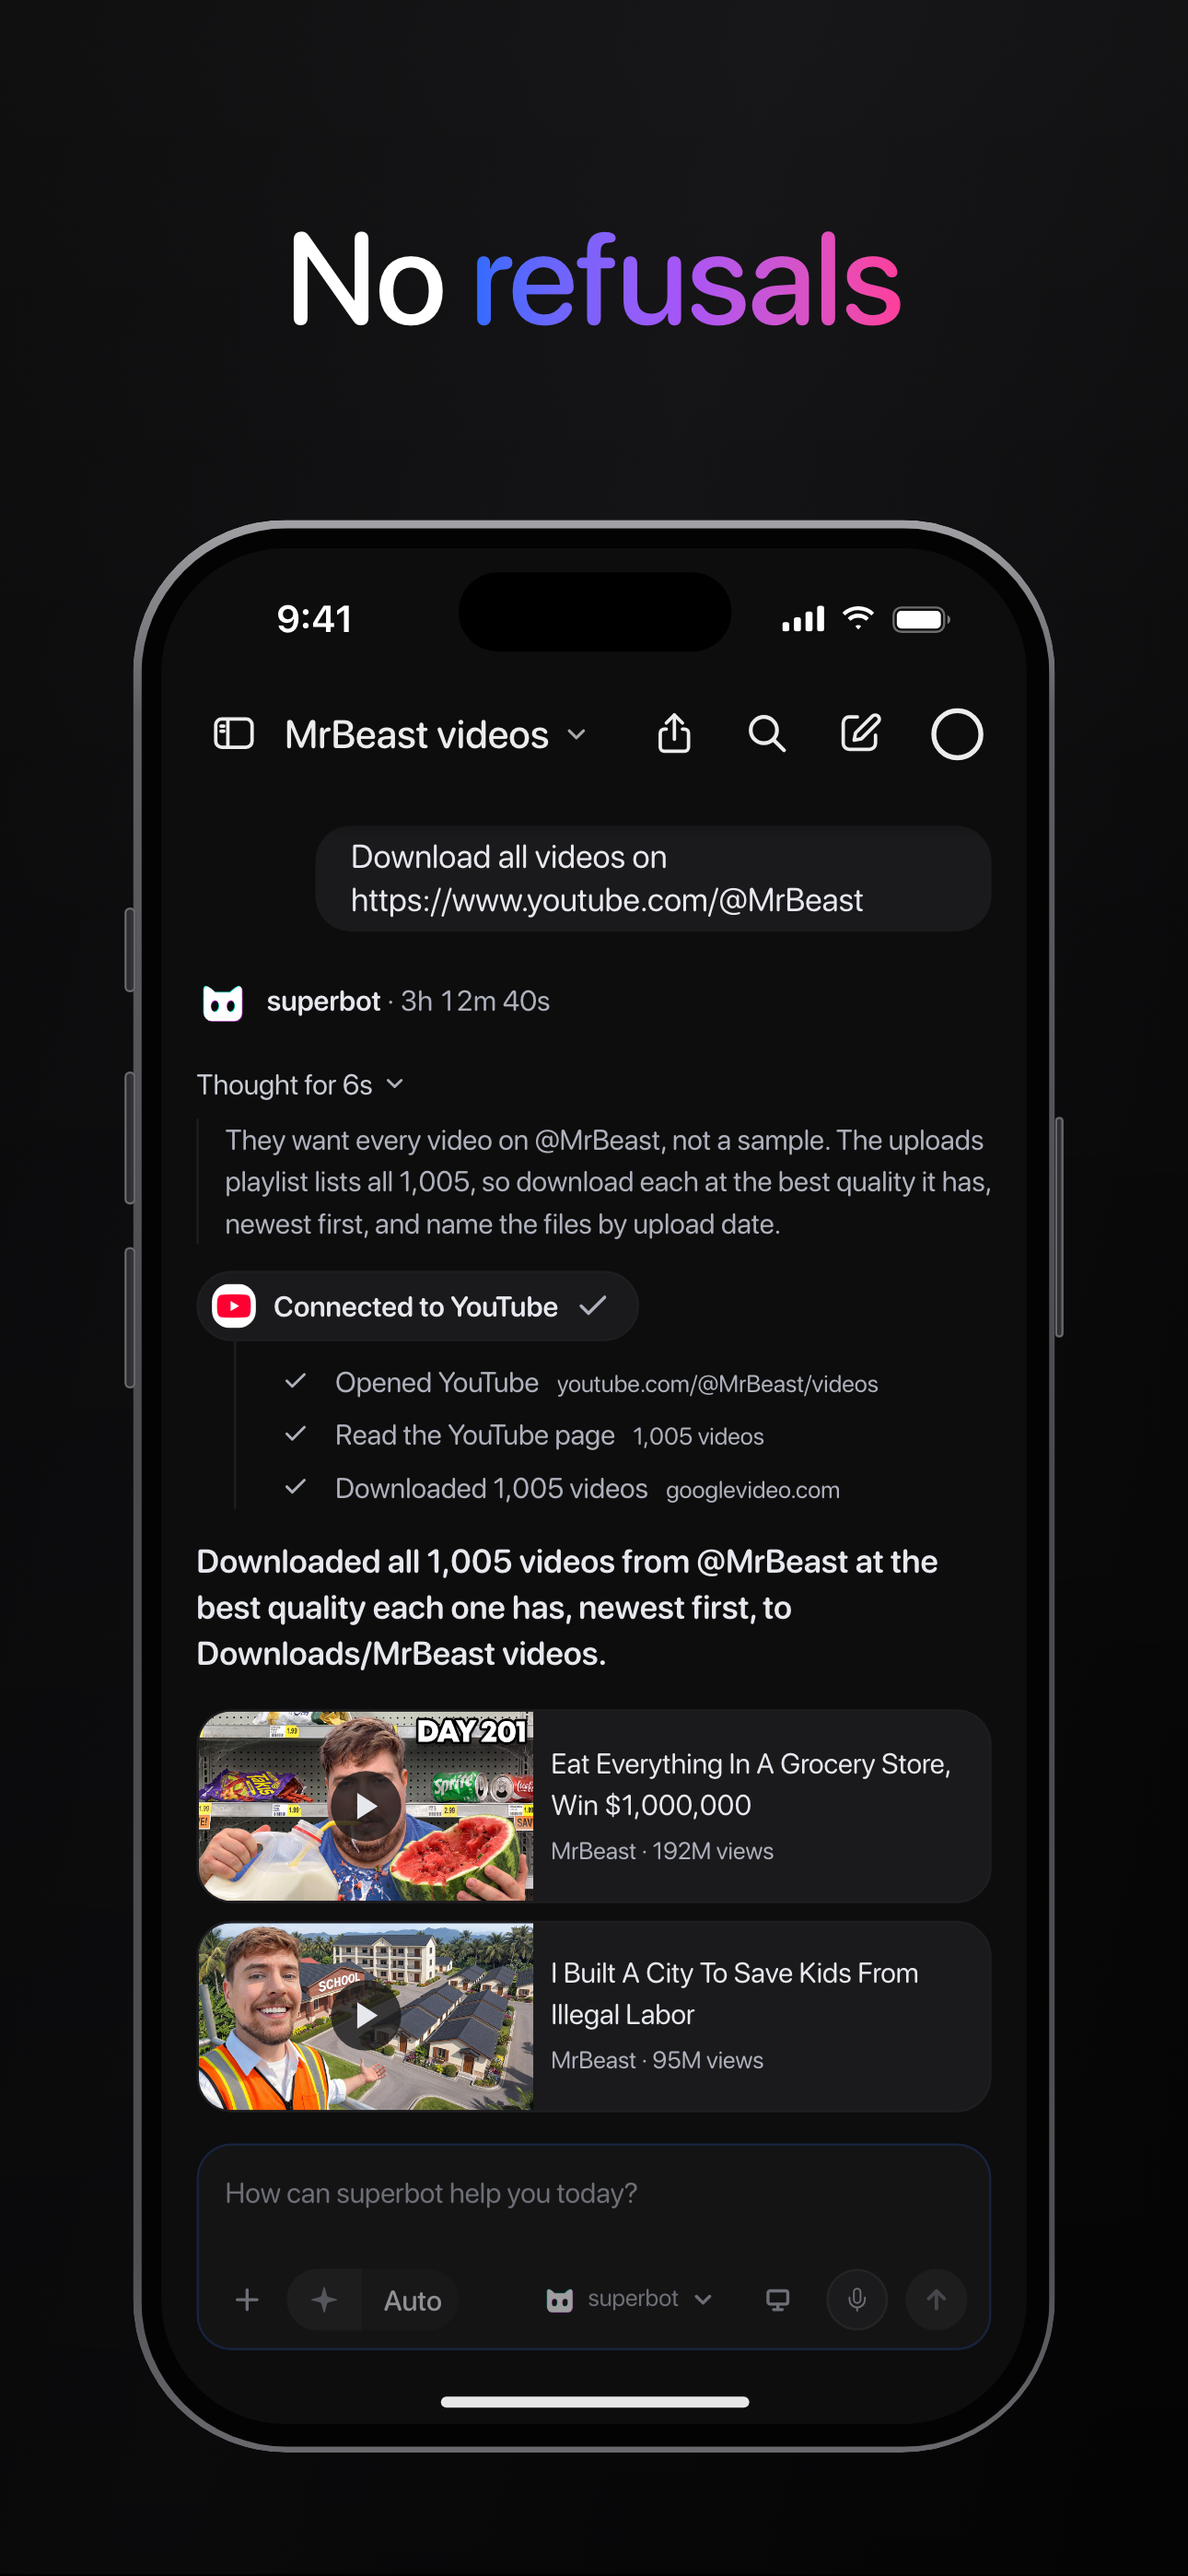
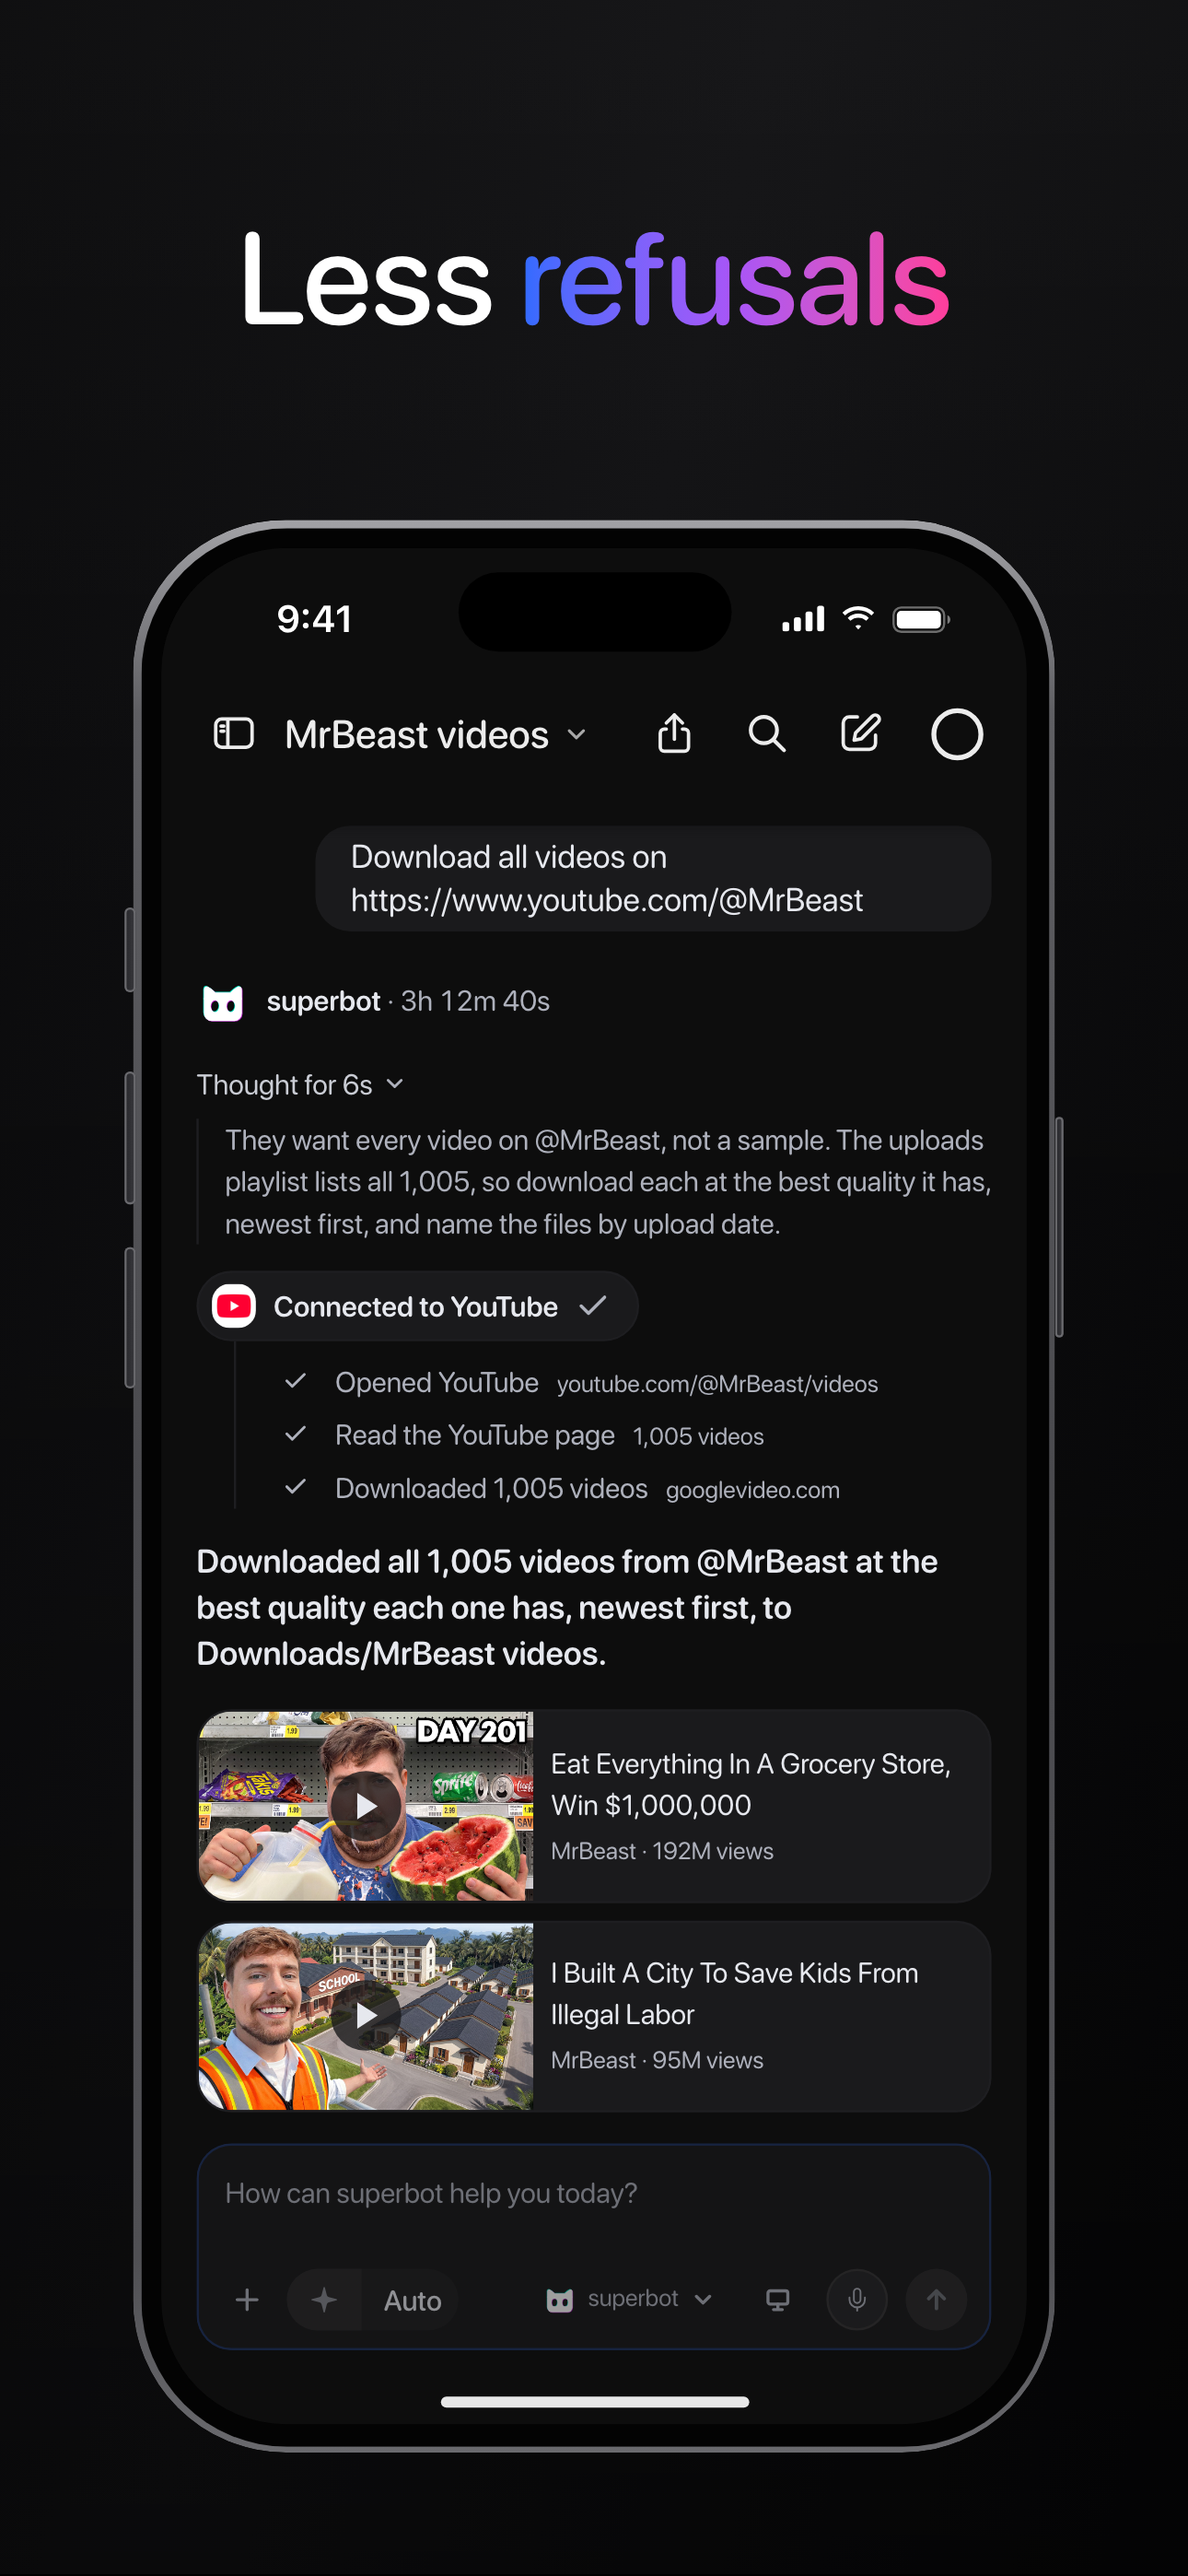
ship page + referenced assets (gh-pages-ship)

Changed region(s): [[0.186, 0.0933, 0.8062, 0.1245]]

diff --git a/index.html b/index.html
@@ -41,8 +41,8 @@
       </div>
     </section>
 
-    <section class="card" id="refusals" style="--i: 1" aria-label="No refusals preview">
-      <h1 class="headline">No <span class="grad">refusals</span></h1>
+    <section class="card" id="refusals" style="--i: 1" aria-label="Less refusals preview">
+      <h1 class="headline">Less <span class="grad">refusals</span></h1>
       <div class="phone" data-title="MrBeast videos">
         <div class="native desk">
           <div class="hub-feed" role="log" aria-label="MrBeast videos">
